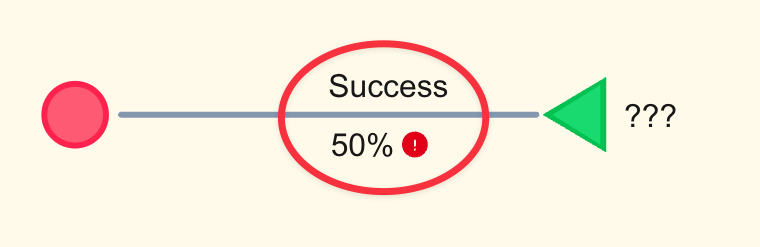
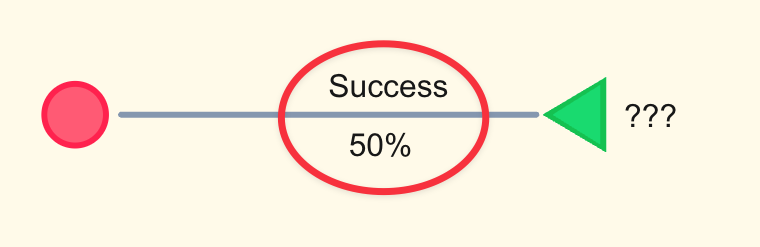
Update tutorial images

Changed region(s): [[0.4237, 0.5385, 0.575, 0.6518]]

diff --git a/src/app/quick-start/page.tsx b/src/app/quick-start/page.tsx
@@ -75,8 +75,7 @@ export default function QuickStart() {
           <li className="py-2">
             Click on the <em>???</em> on the new branch and replace it with a
             label like &quot;Success&quot; or &quot;Failure&quot;. Then click on
-            the <em>??%</em> and replace it with a probability like 0.5. Ignore
-            the red warning for now.
+            the <em>??%</em> and replace it with a probability like 0.5.
             <Screenshot
               src="/quick-start/evtree-quick-start-6.png"
               alt="screenshot"
